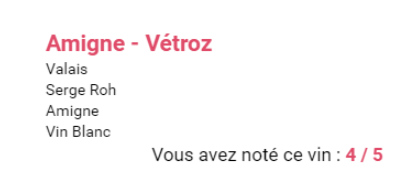
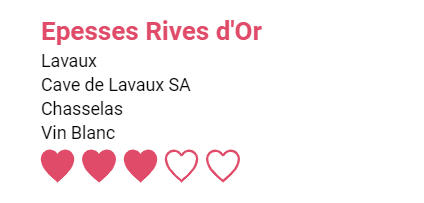
V7.0 - Updated rate wine list + Help page

Changed region(s): [[0.0893, 0.4775, 0.9529, 0.927], [0.0893, 0.0843, 0.6253, 0.4494]]

diff --git a/src/app/pages/help/help.page.html b/src/app/pages/help/help.page.html
@@ -4,10 +4,13 @@
 
 <ion-content>
   <ion-item>
-    <h3 text-center>Pour naviguer sur l'application, accédez au menu en cliquant sur le bouton :
+    <h5 text-center>Pour naviguer sur l'application, accédez au menu latéral en touchant le bouton :
       <img class="img-help square" src="../../../assets/images/side_menu_btn.png">
-    </h3>
+    </h5>
     <br />
+    <h5 text-center>Pour vous déconnecter de l'app, touchez le bouton :
+        <img class="img-help smallrect" src="../../../assets/images/logout.png">
+    </h5>
   </ion-item>
   <ion-card>
     <ion-card-header id="1" (click)="toggleAccordion($event)" class="card-header">
@@ -27,15 +30,21 @@
       <ion-item class="item-help" lines="none">
         <div class="txt-help">
           <div>
-            Dans le cas où vous n'avez <b>pas encore noté le vin</b>, alors il est affiché avec un pourcentage de
-            recommendation<b>*</b> :
+            Dans le cas où vous n'avez <b>pas encore noté le vin</b>, alors il est affiché avec une note qui correspond
+            à la moyenne des notes des concours pour ce vin suivi, entre parenthèses, du nombre de notes constituant la
+            moyenne :
           </div>
           <img class="img-help rect" src="../../../assets/images/wine_unrated.png">
-          <br /><span style="font-size: 0.8em">*Ce pourcentage est le résultat d'un calcul de coefficient de
-            correspondance
-            entre plusieurs vins et plusieurs personnes. Il est calculé sur une base très spécifique dont le détail ne
-            peut
-            être étalé ici.</span>
+          <br />
+          <div style="font-size: 0.8em">
+            Si la note est bonne ou excellente (4 ou 5), elle est affichée en <b style="color:green">vert</b>.<br />
+            Si la note est moyenne (3), elle est affichée en <b style="color:darkorange">orange</b>.<br />
+            Si la note est médiocre (2), elle est affichée en <b style="color:red">rouge</b>.
+          </div>
+          <br />
+          <div>
+            Pour noter un vin, il suffit de toucher la petite fiche (voir images ci-dessus).
+          </div>
         </div>
       </ion-item>
     </ion-card-content>
@@ -57,7 +66,7 @@
           <img class="img-help" src="../../../assets/images/vintage_select.png">
           <br />
           <div>
-            Une fois le millésime sélectionné, cliquez sur "Valider" pour passer à l'écran suivant.
+            Une fois le millésime sélectionné, touchez "Valider" pour passer à l'écran suivant.
           </div>
         </div>
       </ion-item>
@@ -80,7 +89,7 @@
           <img class="img-help" src="../../../assets/images/wine_detail_filled.png">
           <br />
           <div>
-            Un clic sur le bouton "Annuler" vous ramène à l'écran de sélection des vins tandis ce que "Enregistrer
+            Un touché sur le bouton "Annuler" vous ramène à l'écran de sélection des vins tandis ce que "Enregistrer
             l'avis"
             sauvegarde votre note et votre commentaire dans la base de données et affiche une fenêtre de confirmation
             avec
@@ -104,7 +113,6 @@
     <ion-card-content id="content4" class="help-card">
       <ion-item class="item-help" lines="none">
         <div class="txt-help">
-
           <img class="img-help" src="../../../assets/images/historical_page.png">
           <div>
             Sur cette page vous retrouvez une liste des vins que vous avez évalués auparavant, filtrés par catégorie
@@ -114,7 +122,7 @@
 
           <img class="img-help mobile-large" src="../../../assets/images/historical_page_accordion_opened.png">
           <div>
-            Dès que vous cliquez sur un en-tête (vins blancs par exemple), celui-ci s'ouvre et laisse place aux notes
+            Dès que vous touchez un en-tête (vins blancs par exemple), celui-ci s'ouvre et laisse place aux notes
             des
             vins
             sous forme de ♥ (coeurs).
@@ -123,6 +131,11 @@
             redirigé
             vers
             la page de sélection du millésime.
+          </div>
+          <br />
+          <div>
+            Dans le cas où l'utilisateur n'a encore jamais évalué de vin, alors le message suivant vient s'afficher :
+            <img class="img-help" src="../../../assets/images/historical_no_rates.png">
           </div>
         </div>
       </ion-item>
@@ -151,10 +164,10 @@
           </div>
           <img class="img-help mobile-xlarge" src="../../../assets/images/find-restaurant_infowindow.png">
           <div>
-            Un clic sur un marqueur <b style="color:crimson">rouge</b> affiche une bulle info avec les données du
+            Un touché sur un marqueur <b style="color:crimson">rouge</b> affiche une bulle info avec les données du
             restaurant
             sélectionné.
-            Cliquez sur "Afficher la carte des vins" afin d'accéder à la carte du restaurant souhaité :
+            Touchez "Afficher la carte des vins" afin d'accéder à la carte du restaurant souhaité :
           </div>
           <img class="img-help mobile-xlarge" src="../../../assets/images/wine_card_page.png">
           <div>

diff --git a/src/app/pages/home/home.page.ts b/src/app/pages/home/home.page.ts
@@ -30,23 +30,10 @@ export class HomePage implements OnInit {
   otherCorresp = new Array<Rate>();
   otherRates = new Array<any>();
 
-  /** VARIABLES DE CALCUL COEFF CORRESPONDANCE */
-
-  coef = 0;
-  correspondanceVin = 0;
-  nbVinsCommuns = 0;  // Nombre de notes utilisées dans la mise en correspondance avec les autres utilisateurs
-  nbNotesSim = 0; // Notes sur vins communs dont le rapport est de + ou - 1 d'écart
-  ratio = 0;  // Total des ratios de correspondance
-  lstRatios = new Array<number>();
-  noteUtilisateurPondere = 0; // Note d'un utilisateur proche * coef de correspondance (3 dans notre cas)
-  lstNotesPonderees = new Array<number>();
-  coefMoyenneMill = 3; // coefficient fixe de 3 - décidé par Christophe
-
   constructor(private alert: AlertController, private router: Router, private us: UserService, private rs: RatingService, private auth: AuthenticationService) { }
 
   ngOnInit() {
     this.getAuthenticatedUser();
-    //  this.getRatesByUsers(); // --> commentée car la fonction ne retourne pas les données nécessaires (cf : Calcul de coefficient de correspondance)
     this.getRatesOfAuthenticatedUser();
   }
 
@@ -69,54 +56,4 @@ export class HomePage implements OnInit {
     });
   }
 
-  /** 
-   * FONCTION QUI DEVAIT CALCULER LE COEFFICIENT DE CORRESPONDANCE ... (Fonctionne en partie mais ne récupère pas toutes les données nécessaires)
-   * RÉCUPÈRE LES NOTES DES UTILISATEURS EXCLUANT CELUI CONNECTÉ */
-  // tslint:disable: max-line-length
-  private getRatesByUsers() {
-    const authenticatedUserRates = JSON.parse(localStorage.getItem('authenticatedUserRates'));
-    console.log('===============les notes du user logged in===============');
-    console.log(authenticatedUserRates);
-    this.us.getUsers().subscribe(users => {
-      const filteredUsers = users.filter(u => u.id !== this.user_id); // je crée une nouvelle structure avec tous les users sauf celui connecté
-      localStorage.setItem('otherUsers', JSON.stringify(filteredUsers));
-      filteredUsers.forEach(user => {
-        this.rs.getUserRates(user.id).subscribe(rates => {
-          authenticatedUserRates.forEach(currentUserRate => {
-            rates.forEach(otherRate => {
-              if (currentUserRate.fk_rat_vin_id === otherRate.fk_rat_vin_id) { // je compare les millésimes communs (entre l'utilisateur connecté et les autres)
-                this.correspondanceVin = currentUserRate.rat_value - otherRate.rat_value; // on calcule la différence des notes pour connaître le nombre de notes "similaire" (soit + ou - 1 d'écart)
-                this.nbVinsCommuns++; // incrémente le nombre de millésimes notés en communs entre l'utilisateur connecté et les autres
-                this.currentCorresp.push(currentUserRate);
-                this.otherCorresp.push(otherRate);
-                if (this.correspondanceVin >= -1 && this.correspondanceVin <= 1) {
-                  this.nbNotesSim++; // incrémente le nombre de notes avec + ou - 1 d'écart
-                }
-                this.coef = this.nbNotesSim / this.nbVinsCommuns; // Nb de vin évalué avec + ou - 1 point d'écart / Nb de vin évalué en commun
-                this.ratio += this.coef;
-                this.noteUtilisateurPondere = this.coef * otherRate.rat_value;
-                this.lstRatios.push(this.ratio); // on remplit la liste des ratios         
-                this.lstNotesPonderees.push(this.noteUtilisateurPondere); // on remplit la liste des notes pondérées
-              } else {
-                this.correspondanceVin = 0; // afin d'éviter de diviser par 0, s'il n'y a pas de vin en commun alors renvoyer 0 dans la table
-                this.otherRates.push(otherRate); // les notes des autres users qui ne sont pas en commun avec celles du user courant
-              }
-            });
-          });
-        });
-      });
-    });
-    setTimeout(() => {
-      localStorage.setItem('lstRatios', JSON.stringify(this.lstRatios));
-      localStorage.setItem('lstNotesPonderees', JSON.stringify(this.lstNotesPonderees));
-      localStorage.setItem('nbVinsCommuns', this.nbVinsCommuns.toString());
-      localStorage.setItem('nbNotesSimilaires', this.nbNotesSim.toString());
-    }, 1000);
-    /** STADE ACTUEL DES DONNÉES POUR LE CALCUL DU COEFFICIENT DE CORRESPONDANCE :
-     *  - J'AI LES MOYENNES DES MILLÉSIMES POUR NOTES ET CONCOURS (directement récupérables de la base de données grâce aux routes du Back end)
-     *  - J'AI LE NOMBRE DE NOTES COMMUNES (les mêmes vins notés entre deux users) ET LE NOMBRE DE NOTES SIMILAIRES (+ ou - 1 d'écart entre deux notes)
-     *  - J'AI LE RATIO TOTAL
-     *  - J'AI TROIS TABLEAUX : CELUI POUR LES NOTES DU USER CONNECTÉ (COMMUNES A CELLES DES AUTRES), CELUI POUR LES NOTES DES AUTRES USERS (COMMUNES A CELLE DU USER CONNECTÉ) ET CELUI POUR TOUTES LES AUTRES NOTES NON COMMUNES
-     */
-  }
 }

diff --git a/src/app/components/wine-card/wine-card.component.ts b/src/app/components/wine-card/wine-card.component.ts
@@ -26,20 +26,9 @@ export class WineCardComponent implements OnInit {
   isRated = false;
   user_id: number;
   moyenneMill: number; // note affichée pour le vin (calculée sur la moyenne des millésimes grâce à la fonction getAverageRate())
-  moyenneConcoursMill: number; // note moyenne des concours pour le millésime
+  moyennePtsConcoursMill: number; // moyenne des points des concours pour le millésime
+  nbNotes: number; // nombre de notes constituant la moyenne affichée
   percent: number;
-
-
-  /** VARIABLES DE CALCUL COEFF CORRESPONDANCE */
-  allUsersRates: Array<Rate>;
-  rates: Array<Rate>;
-  setRates = new Set<Rate>();
-  correspondanceVin = 0; // Si une des deux personnes n'a pas noté le vin, j'ai attribué une valeur -100 à la correspondance
-  nbNotesSim = localStorage.getItem('nbNotesSimilaires'); // Notes sur vins communs dont le rapport est de + ou - 1 d'écart
-  nbNotes = localStorage.getItem('nbVinsCommuns');  // Nombre de notes utilisées dans la mise en correspondance avec les autres utilisateurs
-  noteUtilisateurPondere = 0; // Note d'un utilisateur proche * coef de correspondance (3 dans notre cas)
-  coefMoyenneMill = 0;
-
 
   constructor(private vs: VinService, private rs: RatingService, private us: UserService, private router: Router, private auth: AuthenticationService, private route: ActivatedRoute) { }
 
@@ -47,8 +36,9 @@ export class WineCardComponent implements OnInit {
     this.percent = Math.floor(Math.random() * 90) + 50; // valeur aléatoire en attendant le calcul
     this.user_id = this.auth.getUserId();
     this.getMoyenneMill();
+    this.getMoyenneConcoursMill();
+    this.getNombreNotesConcoursMill();
     this.getRatesByAuthenticatedUser();
-    this.getRecommendedRate();
 
   }
 
@@ -77,14 +67,20 @@ export class WineCardComponent implements OnInit {
   private getMoyenneMill(){
     this.rs.getWineRatesAverage(this.user_id, this.vin.win_id).subscribe(avg => {
       this.moyenneMill = Math.round(avg * 2) / 2;  // arrondie à 0.5
-      localStorage.setItem('moyenneMill', this.moyenneMill.toString());
     });
   }
-  /** FONCTION QUI RÉCUPÈRE ET STOCKE LA MOYENNE DES CONCOURS BASÉE CE SUR LES MILLÉSIMES (arrondie à 0.5) */
+  /** FONCTION QUI RÉCUPÈRE ET STOCKE LA MOYENNE DES CONCOURS BASÉE CE SUR LES MILLÉSIMES */
   private getMoyenneConcoursMill(){
-    this.rs.getWineConcoursRatesAverage(this.user_id).subscribe(avg => {
-      this.moyenneConcoursMill = Math.round(avg * 2) / 2;  // arrondie à 0.5
-      localStorage.setItem('moyenneConcoursMill', this.moyenneConcoursMill.toString());
+    this.rs.getWineConcoursRatesAverage(this.vin.win_id).subscribe(avg => {
+      this.moyennePtsConcoursMill = avg;
+      console.log(this.moyennePtsConcoursMill);
+    });
+  }
+  /** FONCTION QUI RÉCUPÈRE ET STOCKE LE NOMBRE DE NOTES DES CONCOURS BASÉE CE SUR LES MILLÉSIMES */
+  private getNombreNotesConcoursMill(){
+    this.rs.getWineConcoursRatesNumber(this.vin.win_id).subscribe(nbNotes => {
+      this.nbNotes = nbNotes;
+      console.log(this.nbNotes);
     });
   }
 
@@ -92,11 +88,6 @@ export class WineCardComponent implements OnInit {
   private goToVintages() {
     this.vs.pushNextVin(this.vin);
     this.router.navigateByUrl('wines/' + this.vin.win_id + '/choose-vintage');
-  }
-
-  // problème au niveau du nombre de vins communs et du nombre de notes similaires...
-  getRecommendedRate(){
-
   }
 
 }

diff --git a/src/app/components/wine-card/wine-card.component.html b/src/app/components/wine-card/wine-card.component.html
@@ -5,27 +5,21 @@
     <ion-label>{{vin.win_producer}}</ion-label>
     <ion-label>{{vin.win_grape_variety}}</ion-label>
     <ion-label>Vin {{vin.win_category}}</ion-label>
-    <div *ngIf="(router.url === '/list-wine' || router.url.includes('/restaurant-card/')) && !isRated" class="label-recommended">
-      <ion-label *ngIf="percent < 40" id="labelRecommended" style="color:red;">
-        Recommandé à {{percent}}% <ion-icon name="thumbs-down"></ion-icon>
+    <div *ngIf="!isRated" class="label-recommended">
+      <ion-label *ngIf="moyennePtsConcoursMill < 75" id="labelRecommended" >
+        Note moyenne : <label style=color:red;>2 </label> <span style="font-size: 0.7em; color:red;">({{nbNotes}} {{nbNotes==1? 'note' : 'notes'}})<ion-icon name="thumbs-down"></ion-icon></span>
       </ion-label>
-      <ion-label *ngIf="percent >= 40 && percent < 80" id="labelRecommended" style="color:orange;">
-        Recommandé à {{percent}}% <ion-icon name="thumbs-up">
-        </ion-icon>
+      <ion-label *ngIf="moyennePtsConcoursMill >= 75 && moyennePtsConcoursMill < 86" id="labelRecommended" >
+        Note moyenne : <label style=color:darkorange;>3 </label> <span style="font-size: 0.7em; color:darkorange;">({{nbNotes}} {{nbNotes==1? 'note' : 'notes'}})<ion-icon name="thumbs-up"></ion-icon></span>
       </ion-label>
-      <ion-label *ngIf="percent >= 80 && percent <= 100" id="labelRecommended" style="color:green;">
-        Recommandé à {{percent}}% <ion-icon name="thumbs-up">
-        </ion-icon>
+      <ion-label *ngIf="moyennePtsConcoursMill >= 86 && moyennePtsConcoursMill < 90" id="labelRecommended" >
+        Note moyenne : <label style=color:green;>4 </label> <span style="font-size: 0.7em; color:green;">({{nbNotes}} {{nbNotes==1? 'note' : 'notes'}})<ion-icon name="thumbs-up"></ion-icon></span>
+      </ion-label>
+      <ion-label *ngIf="moyennePtsConcoursMill >= 90 && moyennePtsConcoursMill <= 100" id="labelRecommended" >
+        Note moyenne : <label style=color:green;>5 </label> <span style="font-size: 0.7em; color:green;">({{nbNotes}} {{nbNotes==1? 'note' : 'notes'}})<ion-icon name="thumbs-up"></ion-icon></span>
       </ion-label>
     </div>
-    <div *ngIf="(router.url === '/list-wine' || router.url.includes('/restaurant-card/')) && isRated" class="label-recommended">
-      <ion-label class="rate-label">Vous avez noté ce vin : 
-        <span class="moyenne-mill">
-          <strong>{{moyenneMill}} / 5 </strong>
-        </span></ion-label>
-        
-    </div>
-    <div id="like" class="rating" *ngIf="router.url === '/historical' && isRated">
+    <div id="like" class="rating" *ngIf="isRated">
       <!-- 0 HEART - NO RATE -->
       <ng-container *ngIf="moyenneMill === 0" title="note-nulle">
         <ion-icon name="heart-empty" class="heart"></ion-icon>

diff --git a/src/app/pages/wine-detail/wine-detail.page.scss b/src/app/pages/wine-detail/wine-detail.page.scss
@@ -8,7 +8,7 @@
   }
 }
 
-.wine-title {
+.toolbar-title {
   font-size: calc(20px + .5vw);
   text-align: center;
   font-weight: bold;
@@ -38,6 +38,10 @@
     position: relative;
   }
 
+  h4{
+    font-size: 5vw;
+  }
+
   .vin-info {
     padding-bottom: 30px;
     white-space: pre-wrap;
@@ -53,7 +57,7 @@
       -webkit-hyphens: none;
       -moz-hyphens: none;
       hyphens: none;
-      font-size: calc(25px + .5vw);
+      font-size: 7vw;
     }
 
     .invalid-feedback {
@@ -77,7 +81,7 @@
 
       .label-info {
         font-weight: 500;
-        font-size: 1.2em;
+        font-size: 5vw;
       }
     }
   }

diff --git a/src/app/services/rating.service.ts b/src/app/services/rating.service.ts
@@ -77,6 +77,11 @@ export class RatingService {
     return this.http.get<number>(URL.domaine + URL.wine.verb + id + URL.concoursRate.verb + 'avg');
   }
 
+  /** Fonction qui récupère la moyenne des notes des concours d'un vin pour l'utilisateur */
+  public getWineConcoursRatesNumber(id: number): Observable<number> {
+    return this.http.get<number>(URL.domaine + URL.wine.verb + id + URL.concoursRate.verb + 'nb');
+  }
+
     /** Fonction qui permet d'envoyer la prochaine instance de tableau de notes dans le BehaviorSubject */
   public pushNextArrayRates(rates: Array<Rate>) {
     this.rates$.next(rates);

diff --git a/src/app/app.module.ts b/src/app/app.module.ts
@@ -26,7 +26,7 @@ import { ComponentsModule } from './components/components.module';
 import { HomePage } from './pages/home/home.page';
 import { LoginPage } from './pages/login/login.page';
 import { RegisterPage } from './pages/register/register.page';
-import { AgmCoreModule, LazyMapsAPILoader } from '@agm/core';
+import { AgmCoreModule } from '@agm/core';
 import { AuthenticationService } from './services/authentication.service';
 import { SnotifyModule, SnotifyService, ToastDefaults } from 'ng-snotify';
 import { CommonModule } from '@angular/common';

diff --git a/src/app/pages/choose-vintage/choose-vintage.page.html b/src/app/pages/choose-vintage/choose-vintage.page.html
@@ -1,6 +1,6 @@
 <ion-content>
   <ion-item class="list-vintage" lines="none">
-    <ion-label>Sélectionnez un millésime</ion-label>
+    <ion-label class="title">Sélectionnez un millésime</ion-label>
     <ion-select [(ngModel)]="selectedYear" (ngModelChange)="goToDetail($event)" cancelText="Annuler" okText="Valider">
       <ion-select-option  *ngFor="let year of listYear">{{year}}</ion-select-option>
     </ion-select>

diff --git a/src/app/app.component.html b/src/app/app.component.html
@@ -11,7 +11,7 @@
           <ion-menu-toggle auto-hide="false" *ngFor="let p of appPages">
             <ion-item [routerDirection]="'root'" [routerLink]="[p.url]">
               <ion-icon slot="start" [name]="p.icon"></ion-icon>
-              <ion-label style="font-size:4.5vw;">
+              <ion-label style="font-size:0.8em;">
                 {{p.title}}
               </ion-label>
             </ion-item>

diff --git a/src/app/pages/logout/logout.page.html b/src/app/pages/logout/logout.page.html
@@ -1,5 +1,5 @@
 <ion-content>
-  <h3 style="text-align: center; margin:50px">Déconnecté ! Vous allez être redirigé vers l'accueil ...</h3>
+  <h3 class="title">Déconnecté ! Vous allez être redirigé vers l'accueil ...</h3>
   <div *ngIf="isLoading && cpt===0" class="loading-spinner">
     <ion-spinner name="bubbles" color="primary"></ion-spinner>
   </div>

diff --git a/src/app/pages/choose-vintage/choose-vintage.page.scss b/src/app/pages/choose-vintage/choose-vintage.page.scss
@@ -2,9 +2,8 @@
     border-top:2px solid #df4b68;
     border-bottom:2px solid #df4b68;
     margin-top:40px;
-    font-size:1.2em;
+    font-size:5vw;
     text-align: center;
     left: -5px !important;
     right: -5px !important;
-
 }

diff --git a/src/app/pages/wine-detail/wine-detail.page.html b/src/app/pages/wine-detail/wine-detail.page.html
@@ -1,6 +1,6 @@
 <ion-header>
   <ion-toolbar>
-    <ion-title class="wine-title">
+    <ion-title class="toolbar-title">
       Fiche du vin
     </ion-title>
   </ion-toolbar>
